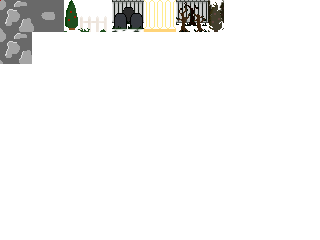
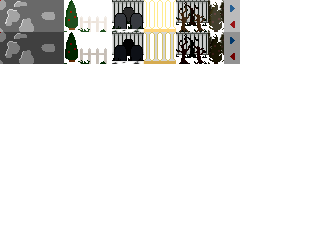
add shaded edge

Changed region(s): [[0.0, 0.0, 0.75, 0.2917]]

diff --git a/lib/maps/RayCastMap.js b/lib/maps/RayCastMap.js
@@ -21,9 +21,8 @@
 
 		},
 
-		set: function (x, y, w, h, depth, col, texX, i) {
+		set: function (x, y, w, h, depth, col, texX, texY) {
 
-			this.i = i;
 			this.x = x;
 			this.y = y;
 			this.w = w;
@@ -32,6 +31,7 @@
 			this.col = col;
 
 			this.texX = texX;
+			this.texY = texY;
 
 		},
 
@@ -51,7 +51,7 @@
 			gfx.ctx.drawImage(
 				this.map.sheet,
 				this.texX,
-				0,
+				this.texY,
 				1,
 				32,
 				this.x,
@@ -139,16 +139,16 @@
 							c = Math.max(0, c * 0.7);
 						}
 
-						var texX = null;
+						var texX,
+							texY;
 
-						//if (hit.cell < 14) {
+						texX = ((hit.cell - 1) * 16) +  Math.floor(hit.textureX * 16);
+						texY = hit.shaded ? 32 : 0;
 
-							texX = ((hit.cell - 1) * 16) +  Math.floor(hit.textureX * 16);
 
-						//}
-						strip.set(i * stripWidth, top, stripWidth, height, hit.dist, "hsl(" + (hitC * 30) + ", " + sat + "%, " + c + "%)", texX, i);
+						strip.set(i * stripWidth, top, stripWidth, height, hit.dist, "hsl(" + (hitC * 30) + ", " + sat + "%, " + c + "%)", texX, texY);
 					} else {
-						strip.set(i * stripWidth, top, stripWidth, height, hit.dist, "hsl(" + (hitC * 30) + ", " + sat + "%, 0%)", null, i)
+						strip.set(i * stripWidth, top, stripWidth, height, hit.dist, "hsl(" + (hitC * 30) + ", " + sat + "%, 0%)", null, null)
 					}
 
 					rays.push({start: [p.x + p.w / 2, p.y + p.h / 2], end: [hit.x, hit.y]})

diff --git a/scripts/levels/LEVEL.js b/scripts/levels/LEVEL.js
@@ -17,8 +17,8 @@
 		[5,0,0,0,0,0,0,0,0,0,0,0,0,0,0,0,0,0,0,0,0,0,0,0,0,0,0,0,0,0,0,0,0,0,0,0,0,0,0,0,0,0,0,0,0,0,0,0,0,0,0,0,0,0,0,0,11],
 		[5,0,0,0,0,0,0,0,0,0,0,0,0,0,0,0,0,0,0,0,0,0,0,0,0,0,0,0,0,0,0,0,0,0,0,0,0,0,0,0,0,0,0,0,0,0,0,0,0,0,0,0,0,0,8,10,10],
 		[5,0,0,0,0,0,0,0,0,0,0,0,0,0,0,0,0,0,0,0,0,0,0,0,0,0,0,0,0,0,0,0,0,0,0,0,0,0,0,0,0,0,0,0,0,0,0,0,0,0,0,0,0,0,9,0,5],
-		[1,5,5,5,5,5,5,5,5,5,5,7,6,6,6,5,5,5,5,5,7,6,6,6,5,5,0,0,5,5,5,5,5,5,5,14,14,14,14,14,12,13,12,13,12,13,12,13,12,0,0,0,0,13,0,1],
-		[1,0,0,0,0,0,8,0,0,0,0,0,0,0,0,0,0,0,0,0,0,0,0,0,0,0,0,0,0,0,0,0,0,0,0,0,0,0,0,0,0,0,0,0,0,0,0,0,0,0,0,0,0,0,12,0,1],
+		[1,5,5,5,5,5,5,5,5,5,5,7,6,6,6,5,5,5,5,5,7,6,6,6,5,5,0,0,15,5,5,5,5,5,5,14,14,14,14,14,12,13,12,13,12,13,12,13,12,0,0,0,0,13,0,1],
+		[1,0,0,0,0,0,8,0,0,0,0,0,0,0,0,0,0,0,0,0,0,0,0,0,0,0,0,0,5,0,0,0,0,0,0,0,0,0,0,0,0,0,0,0,0,0,0,0,0,0,0,0,0,0,12,0,1],
 		[1,0,0,0,0,0,1,0,0,0,0,0,0,0,0,0,0,0,0,0,0,0,0,0,0,0,0,0,0,0,0,0,0,0,0,0,0,0,0,0,0,0,0,0,0,0,0,0,0,0,0,0,0,0,13,0,1],
 		[1,0,0,0,0,0,1,0,0,0,0,5,0,0,0,0,0,0,0,0,0,0,0,0,0,0,0,M,0,0,0,0,0,0,0,0,0,0,0,0,0,0,0,0,0,0,0,0,0,0,0,0,0,0,1,0,1],
 		[1,0,0,0,0,0,1,0,0,0,0,5,0,0,0,0,0,0,0,0,0,0,0,0,0,0,0,0,0,0,0,0,0,0,0,0,0,0,0,0,0,0,0,0,0,0,0,0,0,0,0,0,0,0,1,0,1],

diff --git a/scripts/entities/Orb.js b/scripts/entities/Orb.js
@@ -21,7 +21,8 @@
 
 			this._super(map);
 
-			this.top = Math.sin(this.rnd + (Date.now() / 200)) * 20;
+			this.top = Math.cos(this.rnd + (Date.now() / 400)) * (180 / this.dist);
+			this.left = Math.sin(this.rnd + (Date.now() / 200)) * (200 / this.dist) - (170 / this.dist);
 
 			return !(this.remove);
 
@@ -30,9 +31,7 @@
 		render: function (gfx) {
 
 			var c = gfx.ctx;
-
-
-			this.sheet.render(gfx, 3, 0, this.px, this.py + this.top, 1, 1, this.size);
+			this.sheet.render(gfx, 3, 0, this.px + this.left, this.py + this.top, 1, 1, this.size);
 
 		}
 
